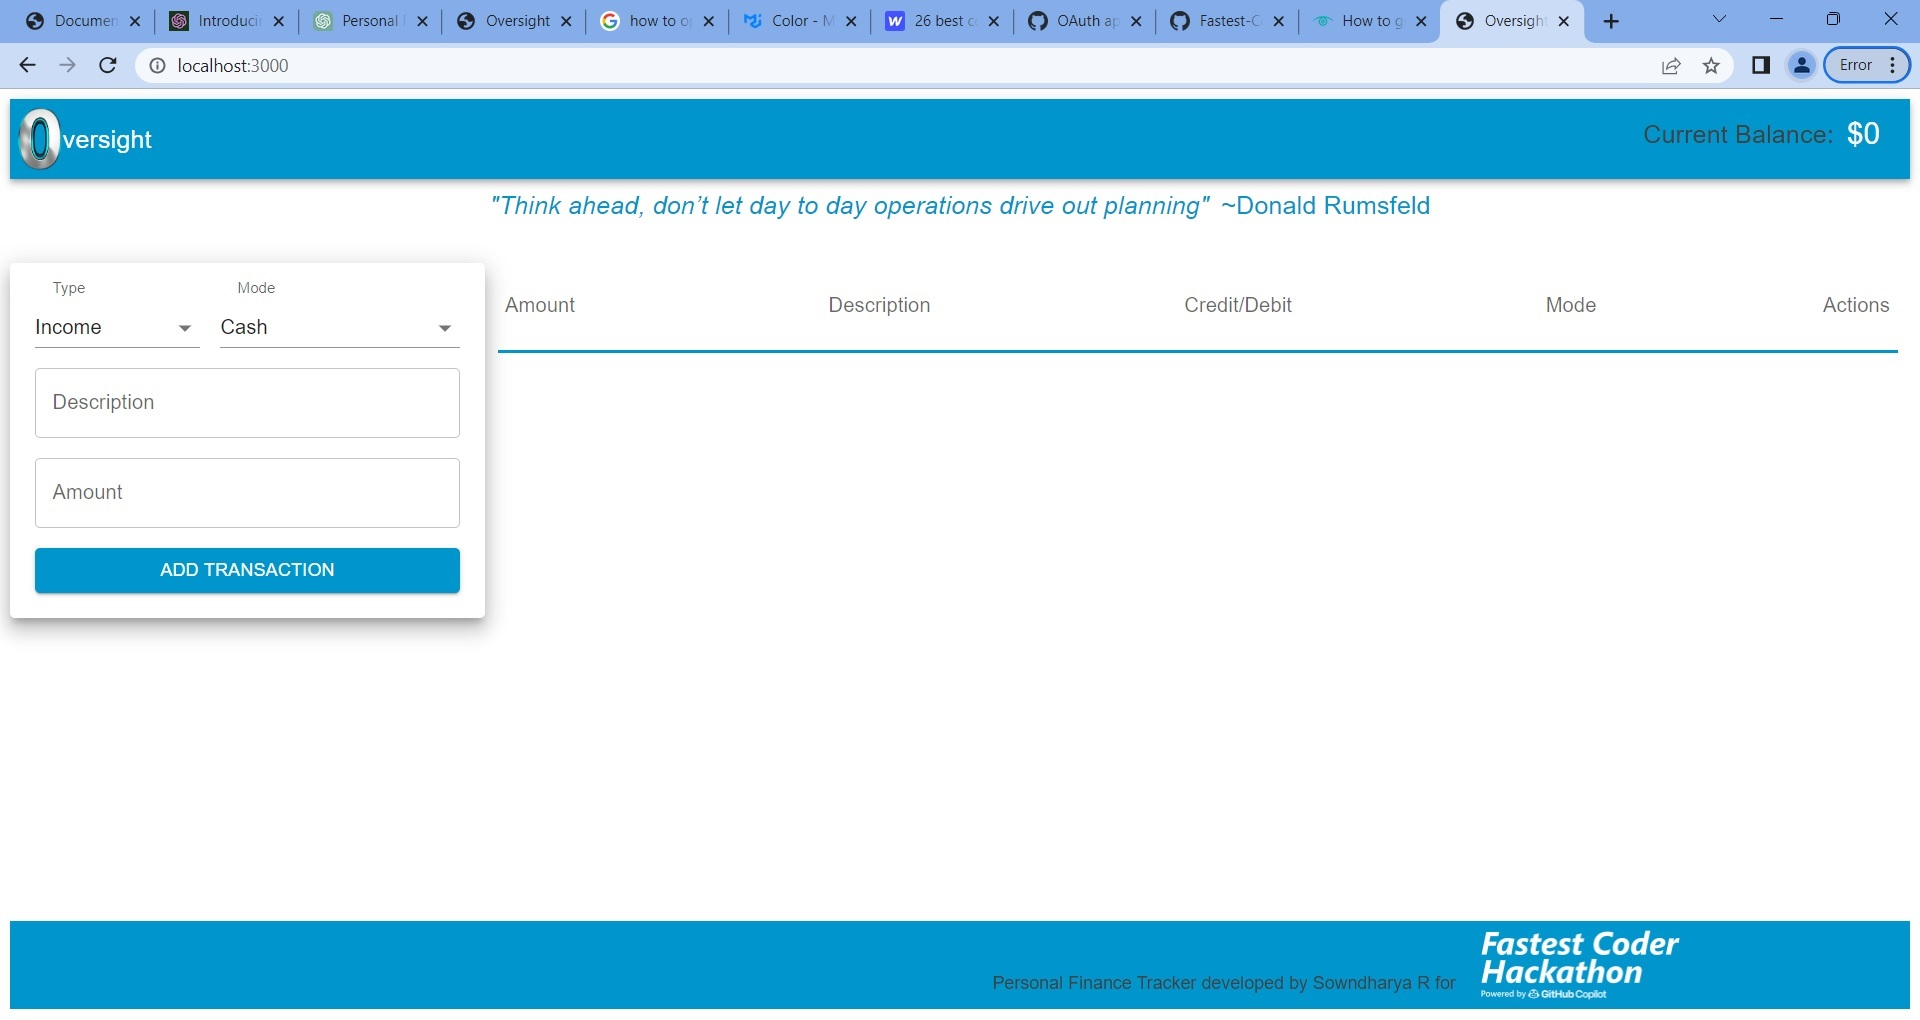
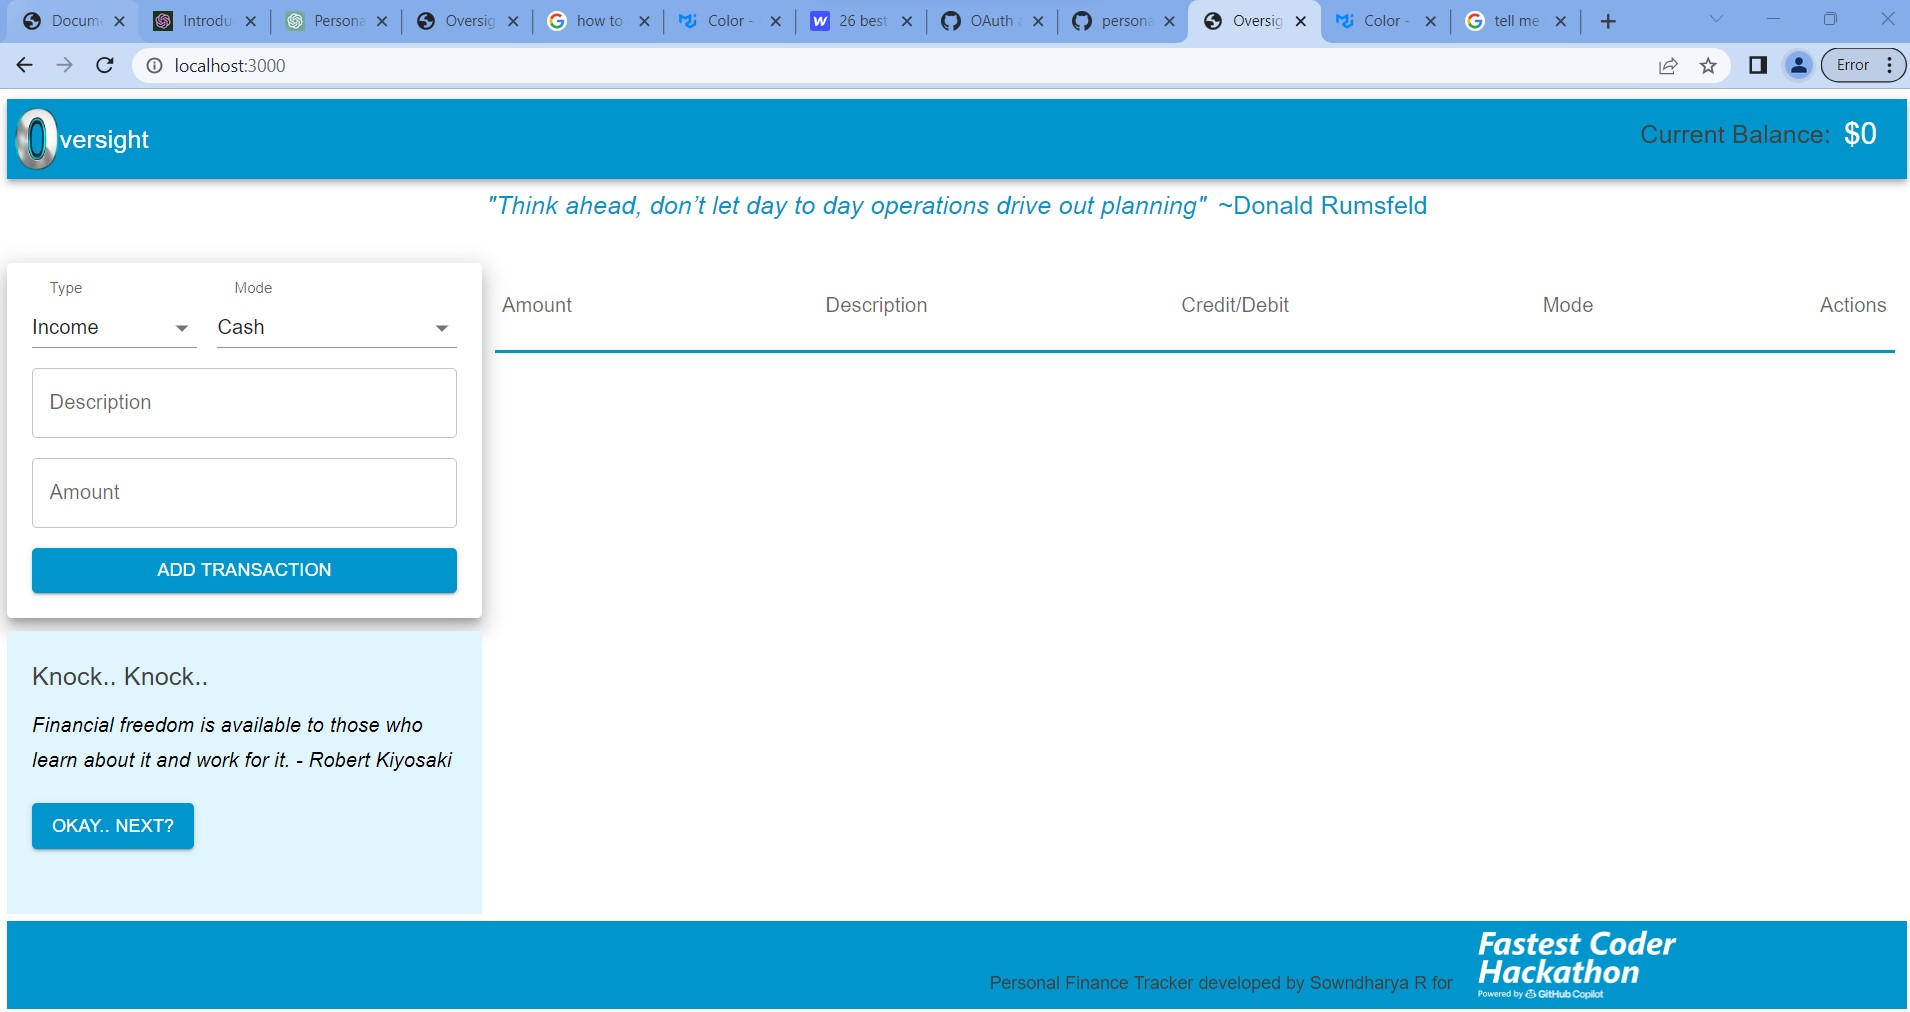
UI Changes

diff --git a/pages/index.js b/pages/index.js
@@ -8,12 +8,16 @@ import { Typography } from '@mui/material';
 import { createTheme } from '@mui/material/styles';
 //import themeprovider from mui
 import { ThemeProvider } from '@mui/material/styles';
+//import tiltcard from components
+import TiltedCard from '../components/TiltedCard';
 //import transactionform from components
 import TransactionForm from '../components/TransactionForm';
 //import transactionlist from components
 import TransactionList from '../components/TransactionList';
 //import mui grid
 import Grid from '@mui/material/Grid';
+//import quotes from components
+import Quotes from '../components/q uotes';
 //create a theme named myTheme with primary and secondary colors
 const myTheme = createTheme({
   palette: {
@@ -30,6 +34,12 @@ const myTheme = createTheme({
 export default function Home() {
   //create a state for transactions
   const [transactions, setTransactions] = useState([]);
+   //create a variable for total transaction amount initially set to 0
+   let totalTransactionAmount = 0;
+   //create a variable for spends initially set to 0
+   let spends = 0;
+   //create a variable for income initially set to 0
+   let income = 0;
   //create a state for edit
   const [edit, setEdit] = useState(false);
 
@@ -41,6 +51,7 @@ export default function Home() {
   const editTransaction = (index, updatedTransaction) => {
     console.log(updatedTransaction);
     const newTransactions = [...transactions];
+   
     newTransactions[index] = updatedTransaction;
     setTransactions(newTransactions);
     //set edit to false
@@ -103,7 +114,10 @@ export default function Home() {
         {/* //create a container with maxWidth of sm and a margin of 30px from typography */}
         <Grid container justifyContent="center" style={{ marginTop: "30px", height: "70vh" }}>
           <Grid item xs={12} sm={6} md={3}>
-            <TransactionForm addTransaction={addTransaction} />
+            <TransactionForm addTransaction={addTransaction}/>
+            {/* //add quoted component */}
+            <Quotes />
+            {/* <TiltedCard title="Finance Planning" content="Lorem ipsum dolor sit amet, consectetur adipiscing elit." /> */}
           </Grid>
           <Grid item xs={12} sm={6} md={9}>
             <TransactionList
@@ -113,8 +127,7 @@ export default function Home() {
             />
           </Grid>
           <Grid item xs={12}>
-
-
+ 
           </Grid>
         </Grid>
         <footer className="footer" style={{ backgroundColor: "#0095cd",marginTop:"5px" }}>

diff --git a/components/quotes.js b/components/quotes.js
@@ -1,0 +1,37 @@
+import { Typography } from '@mui/material';
+import React, { useState, useEffect } from 'react';
+//include button from mui
+import Button from '@mui/material/Button';
+const quotes = [
+  "A budget is telling your money where to go instead of wondering where it went. - Dave Ramsey",
+  "The stock market is filled with individuals who know the price of everything, but the value of nothing. - Philip Fisher",
+  "Do not save what is left after spending, but spend what is left after saving. - Warren Buffett",
+  "Financial freedom is available to those who learn about it and work for it. - Robert Kiyosaki",
+  "The best investment you can make is in yourself. - Warren Buffett",
+];
+
+const Quotes = () => {
+  const [randomQuote, setRandomQuote] = useState('');
+
+  useEffect(() => {
+    generateRandomQuote();
+  }, []);
+
+  const generateRandomQuote = () => {
+    const randomIndex = Math.floor(Math.random() * quotes.length);
+    setRandomQuote(quotes[randomIndex]);
+  };
+
+  return (
+    <div className="quotes" style={{marginTop:"10px",backgroundColor:"#e1f5fe",height:"25vh",padding:"20px",alignContent:"space-around"}}>
+        <Typography variant="h6" style={{color:"#424242"}}>
+        Knock.. Knock..</Typography>
+     <i> 
+      <Typography variant="subtitle1" style={{flexGrow: 1,marginTop:"10px",marginBottom:"20px"}}>{randomQuote}</Typography></i>
+      <Button type="submit" variant="contained" color="primary" onClick={generateRandomQuote}>
+      Okay.. Next?</Button>
+    </div>
+  );
+};
+
+export default Quotes;

diff --git a/components/TiltedCard.js b/components/TiltedCard.js
@@ -1,0 +1,13 @@
+import React from 'react';
+import styles from './TiltedCard.module.css';
+
+const TiltedCard = ({ title, content }) => {
+  return (
+    <div className={styles.card}>
+      <h2 className={styles.title}>{title}</h2>
+      <p className={styles.content}>{content}</p>
+    </div>
+  );
+};
+
+export default TiltedCard;

diff --git a/components/TiltedCard.module.css b/components/TiltedCard.module.css
@@ -1,0 +1,17 @@
+.card {
+    background-color: #fff;
+    border-radius: 4px;
+    box-shadow: 0 2px 4px rgba(0, 0, 0, 0.1);
+    padding: 1.5rem;
+    transform: rotate(-3deg);
+  }
+  
+  .title {
+    font-size: 1.2rem;
+    font-weight: bold;
+  }
+  
+  .content {
+    margin-top: 0.5rem;
+  }
+  
